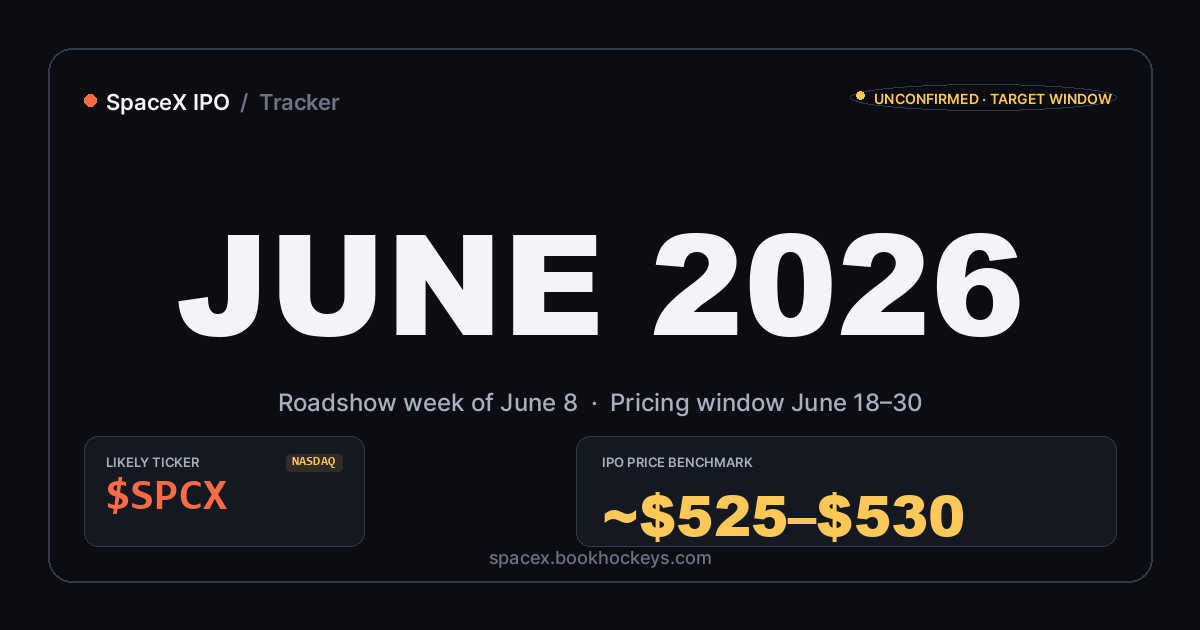
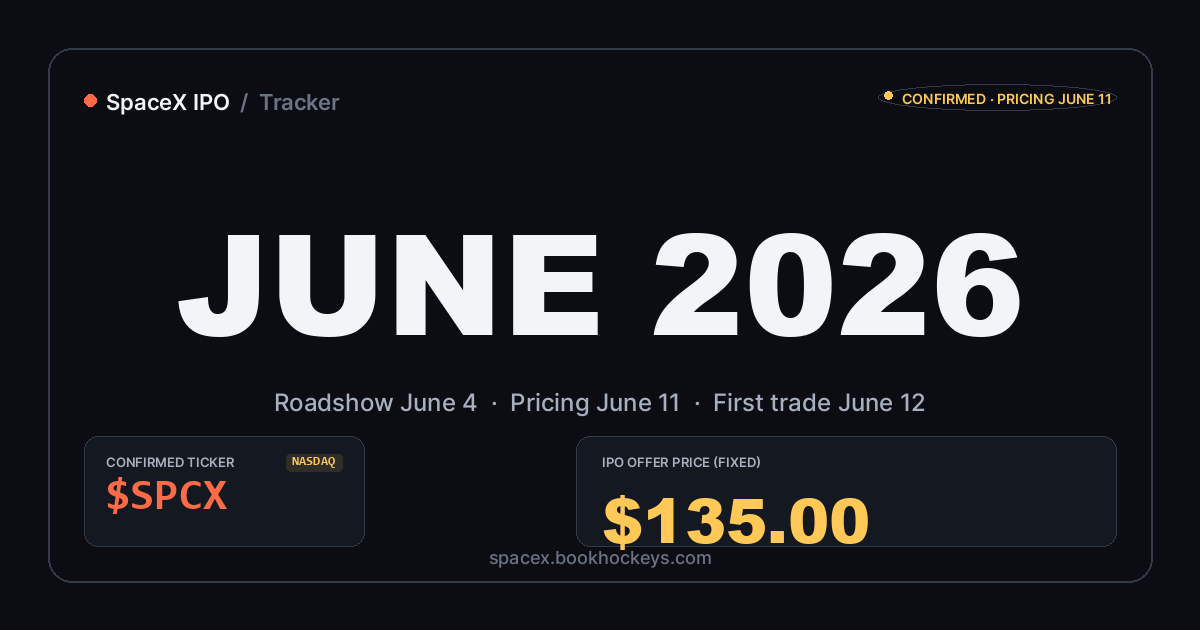
v1.3.4 — regenerate OG image, fold in 555.6M shares + Fidelity
Caught three things still stale after v1.3.3:

1) OG image: og-image.png was last regenerated at v1.2.2 and had four
   stale strings - $525-$530 price, "LIKELY TICKER", "UNCONFIRMED
   TARGET WINDOW" status pill, and the original "Roadshow week of
   June 8 · Pricing window June 18-30" subtitle. So every link share
   in iMessage / Discord / Slack / LinkedIn was showing v1.2.x facts.

   Updated .scripts/build-og-image.py with current copy ($135.00,
   "CONFIRMED TICKER", "CONFIRMED · PRICING JUNE 11", "Roadshow
   June 4 · Pricing June 11 · First trade June 12") and regenerated.

2) ~555.6M shares (math: $135 × 555.6M ≈ $75B raise) added to the
   disclaimer and the Broker prep section.

3) Fidelity is now SpaceX's named retail-access broker. Elevated to
   the top of the Broker prep list with a bold call-out about opting
   in before June 11; Schwab dropped down. The 5% employee/friends
   carve-out from v1.3.3 surfaced as its own line for clarity.

4) June 4 timeline event renamed "IPO roadshow begins" → "IPO
   roadshow + retail access opens" with new desc reflecting the
   dedicated SpaceX investor site + roadshow presentation + Fidelity
   retail opening.

diff --git a/index.html b/index.html
@@ -917,12 +917,13 @@
 
           <h3 style="margin-top: 28px;">Broker prep</h3>
           <ul class="checklist">
-            <li>Fidelity: $100K+ assets or active trader</li>
-            <li>Schwab: $100K+ or 36 trades/year</li>
-            <li>Robinhood IPO Access: no minimum, lottery</li>
+            <li><strong>Fidelity</strong> is SpaceX's named retail-access broker — make sure your account is opted into IPO access ahead of June 11</li>
+            <li>Robinhood IPO Access: no minimum, lottery-based</li>
             <li>SoFi &amp; Webull: no minimum, request-based</li>
-            <li>Retail allocation reportedly up to 30%</li>
-            <li>Demand expected 10–20× oversubscribed</li>
+            <li>Schwab: $100K+ or 36 trades/year</li>
+            <li>~555.6M shares offered at $135 = $75B raise</li>
+            <li>Up to 30% reserved for retail; 5% set aside for SpaceX employees / friends-and-family</li>
+            <li>Demand reportedly 10–20× oversubscribed</li>
           </ul>
         </div>
 
@@ -932,10 +933,10 @@
 
   <footer>
     <div class="disc">
-      <strong>Not investment advice.</strong> SpaceX filed its public S-1 on EDGAR May 20, 2026 (CIK 1181412) confirming $SPCX on Nasdaq, and amended it twice — June 1 (5% employee/friends allocation) and June 3 (per CNBC, a fixed $135 offer price, atypical for an IPO this size). Roadshow begins June 4; pricing June 11; first trade June 12. Per-share price reflects the 5-for-1 forward split approved May 15. Figures from public SEC filings and financial press (CNBC, Reuters, Bloomberg, Motley Fool).
+      <strong>Not investment advice.</strong> SpaceX filed its public S-1 on EDGAR May 20, 2026 (CIK 1181412) confirming $SPCX on Nasdaq, and amended it twice — June 1 (5% employee/friends allocation) and June 3 (per CNBC, a fixed $135 offer price, atypical for an IPO this size). At $135 × ~555.6M shares the deal raises ~$75B at the targeted $1.75T valuation. Roadshow begins June 4 with Fidelity opening retail access; pricing June 11; first trade June 12. Per-share price reflects the 5-for-1 forward split approved May 15. Figures from public SEC filings and financial press (CNBC, Reuters, Bloomberg, Motley Fool).
     </div>
     <div class="meta">
-      <span class="version-badge">v1.3.3</span>
+      <span class="version-badge">v1.3.4</span>
       © <span id="year"></span> · built for you · updated <span id="built"></span>
     </div>
   </footer>
@@ -1009,8 +1010,8 @@
       desc: "First public S-1 amendment (accession 0001628280-26-039276) — CNBC reports SpaceX is setting aside up to 5% of shares for current and former employees plus friends-and-family." },
     { date: "2026-06-03", title: "Fixed $135 IPO price disclosed",
       desc: "Second S-1/A (accession 0001628280-26-040364) reportedly contains the offering terms. Per CNBC: SpaceX is going to market with a FIXED $135 per share — no traditional book-built range — at the $1.75T valuation. Atypical IPO structure." },
-    { date: "2026-06-04", title: "IPO roadshow begins", future: true,
-      desc: "Shotwell likely leads the institutional pitch across major financial centers — compressed from the typical ~2 weeks to roughly one." },
+    { date: "2026-06-04", title: "IPO roadshow + retail access opens", future: true,
+      desc: "Roadshow officially kicks off. SpaceX launches a dedicated investor website + releases its full roadshow presentation. Fidelity opens retail access to $SPCX shares for opted-in customers." },
     { date: "2026-06-11", title: "Pricing", future: true,
       desc: "Allocation finalized. Target $1.75T valuation at $135/share post-split, $75B raise." },
     { date: "2026-06-12", title: "First trade on Nasdaq", future: true,

diff --git a/.scripts/build-og-image.py b/.scripts/build-og-image.py
@@ -60,7 +60,7 @@ d.text((brand_x + 22 + slash_w + 10, brand_y + 4), "/  Tracker",
        font=brand_font, fill=INK_FAINT)
 
 # Status pill (top-right)
-status_text = "UNCONFIRMED · TARGET WINDOW"
+status_text = "CONFIRMED · PRICING JUNE 11"
 status_font = f("Inter-SemiBold.ttf", 14)
 sw, sh = text_size(d, status_text, status_font)
 sp_x2 = W - PAD - 36
@@ -83,7 +83,7 @@ d.text(((W - dw) / 2, date_y), date_text, font=date_font, fill=INK)
 
 # Subtitle under the date, with breathing room based on the font's true height
 sub_font = f("Inter-Medium.ttf", 24)
-sub_text = "Roadshow week of June 8  ·  Pricing window June 18–30"
+sub_text = "Roadshow June 4  ·  Pricing June 11  ·  First trade June 12"
 sw2, _ = text_size(d, sub_text, sub_font)
 d.text(((W - sw2) / 2, date_y + date_visual_height + 8),
        sub_text, font=sub_font, fill=INK_DIM)
@@ -98,7 +98,7 @@ d.rounded_rectangle([tk_x, row_y, tk_x + tk_w, row_y + tk_h],
                     radius=14, fill=PANEL, outline=LINE, width=1)
 
 lbl_font = f("Inter-SemiBold.ttf", 13)
-d.text((tk_x + 22, row_y + 18), "LIKELY TICKER", font=lbl_font, fill=INK_DIM)
+d.text((tk_x + 22, row_y + 18), "CONFIRMED TICKER", font=lbl_font, fill=INK_DIM)
 
 ticker_font = f("consolab.ttf", 44)
 d.text((tk_x + 22, row_y + 40), "$SPCX", font=ticker_font, fill=ACCENT)
@@ -116,10 +116,10 @@ pr_w = 540
 pr_x = W - PAD - 36 - pr_w
 d.rounded_rectangle([pr_x, row_y, pr_x + pr_w, row_y + tk_h],
                     radius=14, fill=PANEL, outline=LINE, width=1)
-d.text((pr_x + 26, row_y + 18), "IPO PRICE BENCHMARK",
+d.text((pr_x + 26, row_y + 18), "IPO OFFER PRICE (FIXED)",
        font=lbl_font, fill=INK_DIM)
-price_font = f("ariblk.ttf", 56)
-d.text((pr_x + 26, row_y + 38), "~$525–$530",
+price_font = f("ariblk.ttf", 62)
+d.text((pr_x + 26, row_y + 38), "$135.00",
        font=price_font, fill=ACCENT2)
 
 # --- Footer URL -------------------------------------------------------------